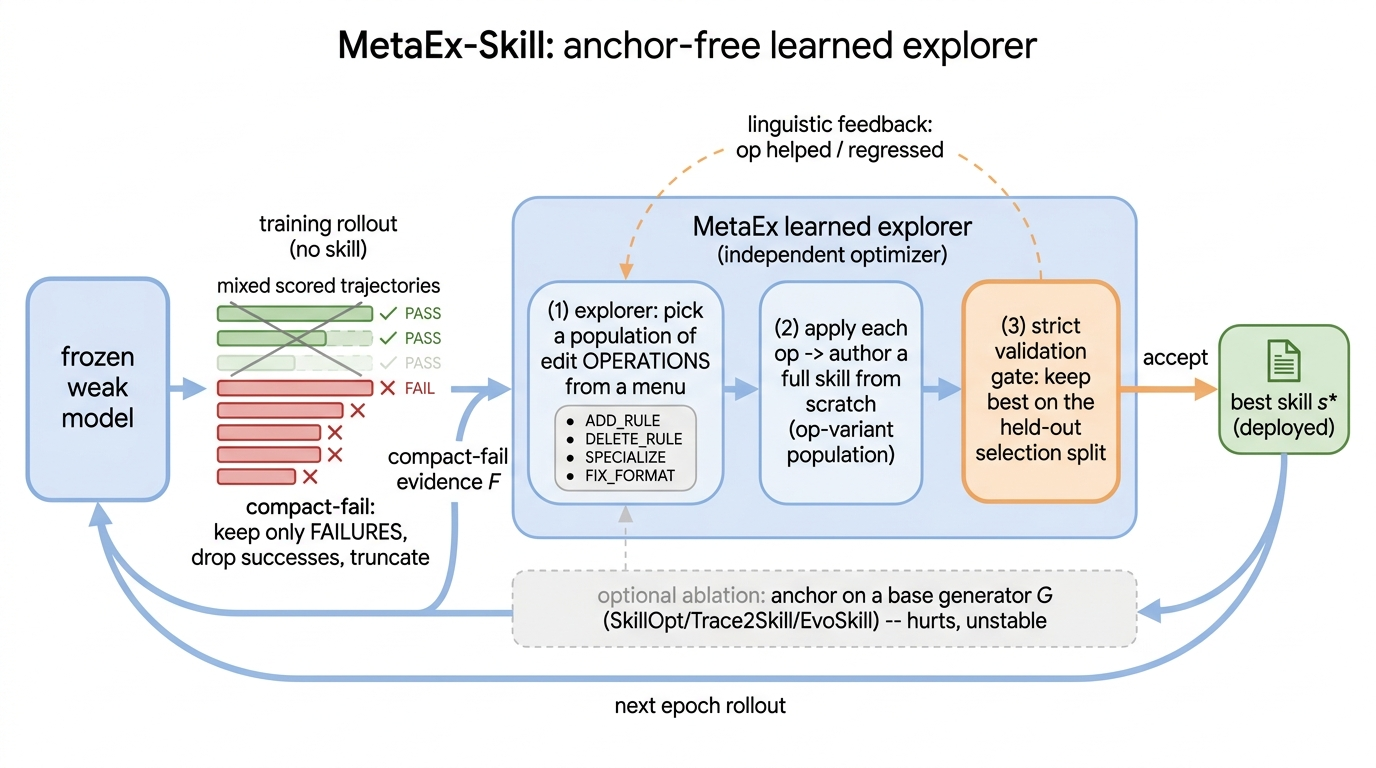
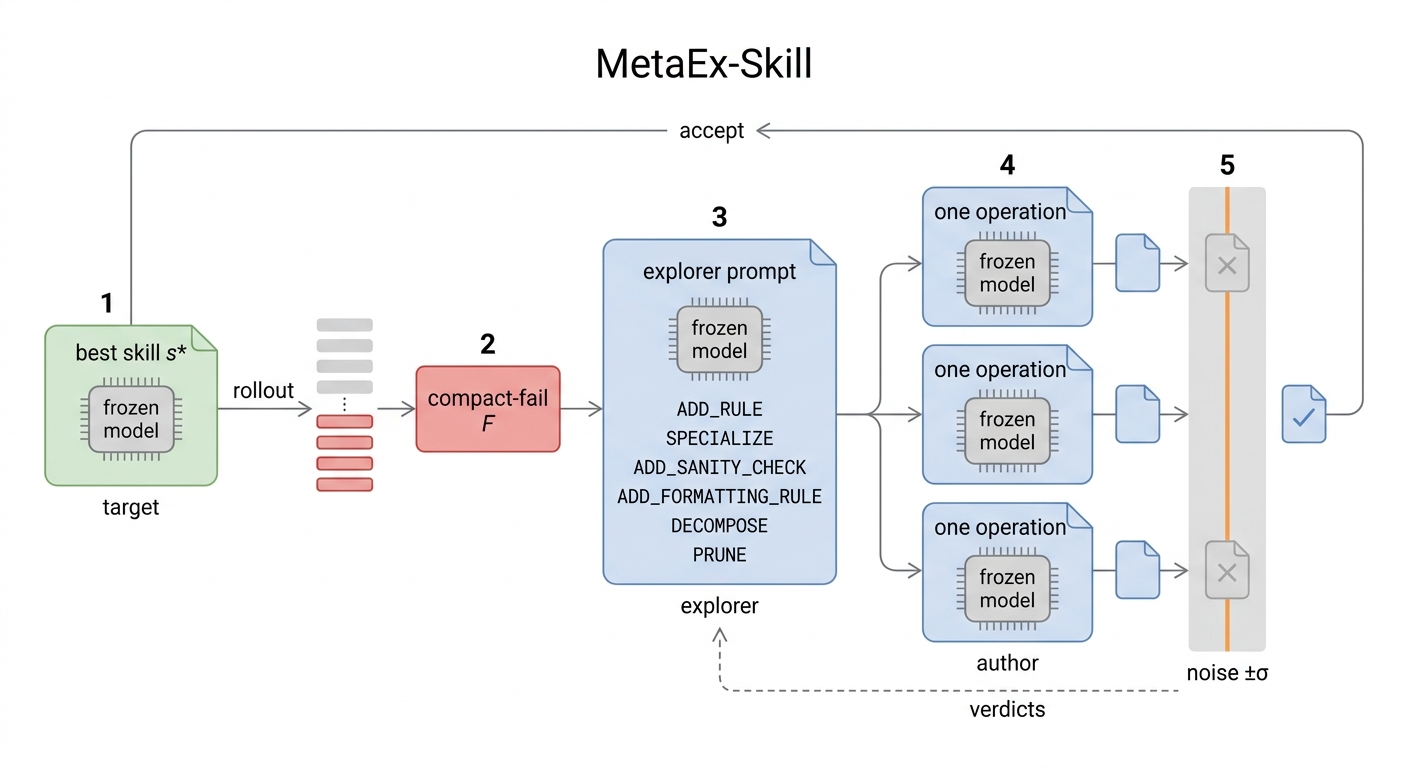
Redraw the framework figure; align the results page with it
The figure now shows what the prose claims: every acting box is the same
frozen model wearing a different document (the deployed skill, the explorer
prompt, one operation), the operation menu lists the six operations the
method actually defines, and the gate is drawn as a threshold inside a
selection-noise band so it is visible why a lone proposal ties out where a
population clears. Re-encoded losslessly with no provenance metadata.

The results page's role figure gains the same nested "frozen model" chip, so
the page and the figure use one visual language.

diff --git a/docs/index.html b/docs/index.html
@@ -275,7 +275,8 @@ svg.diagram.narrow{min-width:520px}
 .diagram .role{fill:rgba(57,135,229,.07); stroke:rgba(57,135,229,.45)}
 .diagram .role-ship{fill:rgba(25,158,112,.09); stroke:rgba(25,158,112,.5)}
 .diagram .t-ship{fill:#199e70}
-.diagram .weights{fill:none; stroke:var(--rule); stroke-dasharray:6 5}
+.diagram .chip{fill:var(--panel-2); stroke:var(--rule); stroke-width:1}
+.diagram .t-chip{fill:var(--ink-2); font-size:11px}
 
 /* ---------- population / gate figure ---------- */
 .popctl{display:flex; flex-wrap:wrap; gap:16px 26px; align-items:center; margin:18px 0 6px}
@@ -607,14 +608,8 @@ footer p{margin:0; max-width:62ch; line-height:1.65}
           </defs>
 
           <g class="shared">
-            <rect class="box" x="272" y="42" width="140" height="290" rx="8"/>
-            <text class="t-title" x="342" y="172" text-anchor="middle">frozen</text>
-            <text class="t-title" x="342" y="190" text-anchor="middle">model</text>
-            <text class="t-dim" x="342" y="214" text-anchor="middle">one set of weights</text>
-            <text class="t-dim" x="342" y="229" text-anchor="middle">for all three roles</text>
             <text class="t-dim" x="342" y="24" text-anchor="middle">never trained · no gradients ever flow</text>
           </g>
-
           <!-- lane 1: explorer -->
           <g class="lane l1">
             <rect class="doc" x="14" y="42" width="210" height="74" rx="5"/>
@@ -622,7 +617,10 @@ footer p{margin:0; max-width:62ch; line-height:1.65}
             <text class="t-dim" x="28" y="82">compact-fail evidence F</text>
             <text class="t-dim" x="28" y="97">feedback history H · op menu</text>
             <line class="arrow" x1="228" y1="79" x2="268" y2="79" marker-end="url(#ar3)"/>
-            <line class="arrow" x1="416" y1="79" x2="454" y2="79" marker-end="url(#ar3)"/>
+            <rect class="chip" x="276" y="60" width="132" height="38" rx="5"/>
+            <text class="t-chip" x="342" y="77" text-anchor="middle">frozen model</text>
+            <text class="t-dim" x="342" y="91" text-anchor="middle">same weights</text>
+            <line class="arrow" x1="412" y1="79" x2="454" y2="79" marker-end="url(#ar3)"/>
             <rect class="role" x="458" y="42" width="214" height="74" rx="5"/>
             <text class="t-ours" x="472" y="64">EXPLORER · explore</text>
             <text class="t-dim" x="472" y="82">picks which operations to try</text>
@@ -638,7 +636,10 @@ footer p{margin:0; max-width:62ch; line-height:1.65}
             <text class="t-dim" x="28" y="190">one chosen operation</text>
             <text class="t-dim" x="28" y="205">plus the same evidence F</text>
             <line class="arrow" x1="228" y1="187" x2="268" y2="187" marker-end="url(#ar3)"/>
-            <line class="arrow" x1="416" y1="187" x2="454" y2="187" marker-end="url(#ar3)"/>
+            <rect class="chip" x="276" y="168" width="132" height="38" rx="5"/>
+            <text class="t-chip" x="342" y="185" text-anchor="middle">frozen model</text>
+            <text class="t-dim" x="342" y="199" text-anchor="middle">same weights</text>
+            <line class="arrow" x1="412" y1="187" x2="454" y2="187" marker-end="url(#ar3)"/>
             <rect class="role" x="458" y="150" width="214" height="74" rx="5"/>
             <text class="t-ours" x="472" y="172">AUTHOR · explore</text>
             <text class="t-dim" x="472" y="190">writes one complete skill</text>
@@ -654,7 +655,10 @@ footer p{margin:0; max-width:62ch; line-height:1.65}
             <text class="t-dim" x="28" y="298">the one document the gate</text>
             <text class="t-dim" x="28" y="313">has accepted</text>
             <line class="arrow" x1="228" y1="295" x2="268" y2="295" marker-end="url(#ar3)"/>
-            <line class="arrow" x1="416" y1="295" x2="454" y2="295" marker-end="url(#ar3)"/>
+            <rect class="chip" x="276" y="276" width="132" height="38" rx="5"/>
+            <text class="t-chip" x="342" y="293" text-anchor="middle">frozen model</text>
+            <text class="t-dim" x="342" y="307" text-anchor="middle">same weights</text>
+            <line class="arrow" x1="412" y1="295" x2="454" y2="295" marker-end="url(#ar3)"/>
             <rect class="role-ship" x="458" y="258" width="214" height="74" rx="5"/>
             <text class="t-ship" x="472" y="280">TARGET · exploit</text>
             <text class="t-dim" x="472" y="298">answers the benchmark task</text>
